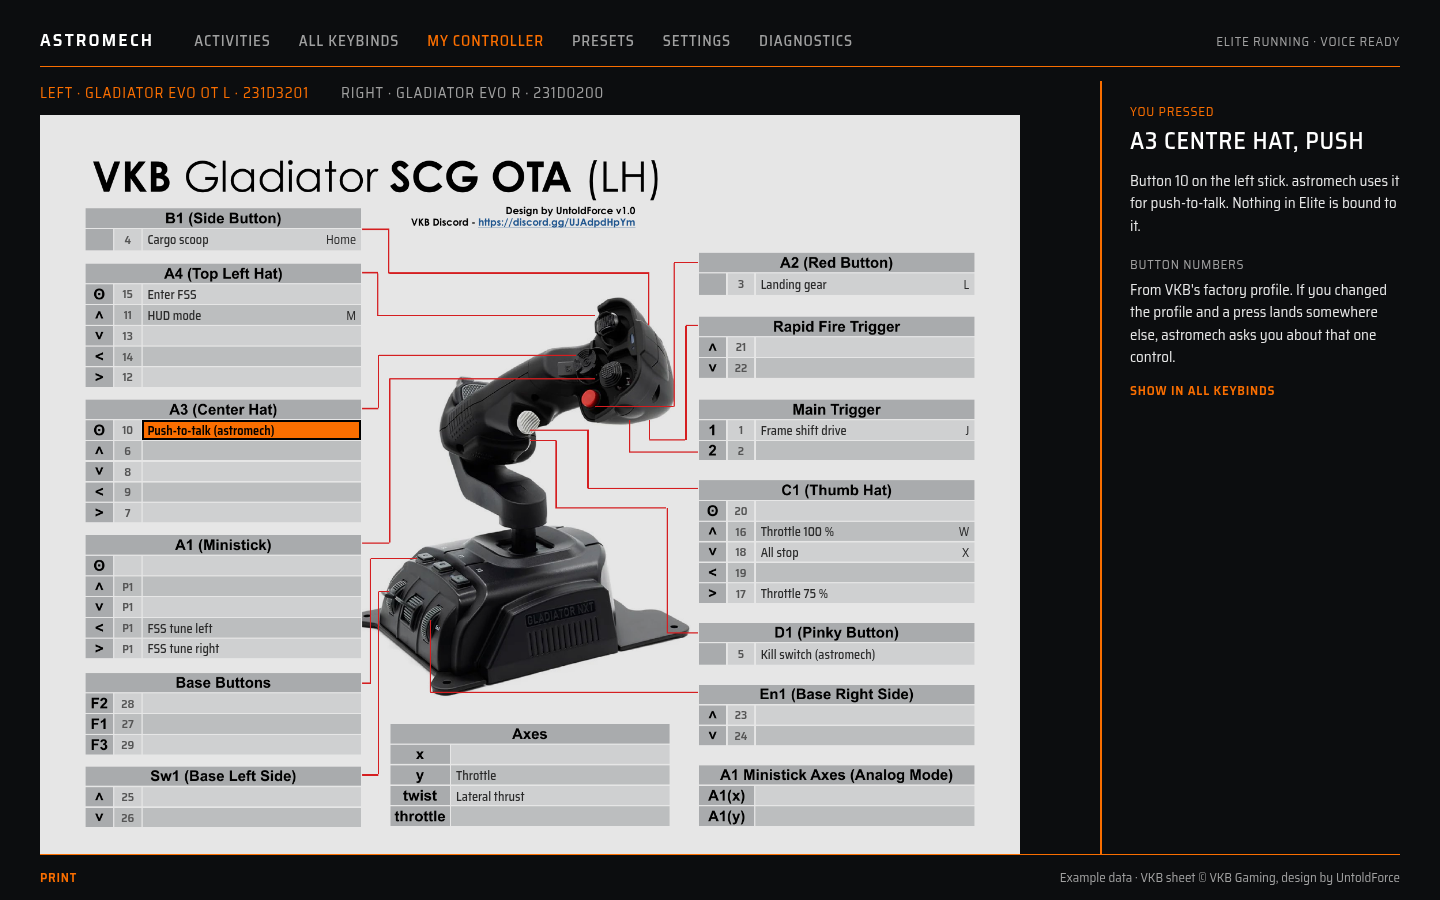
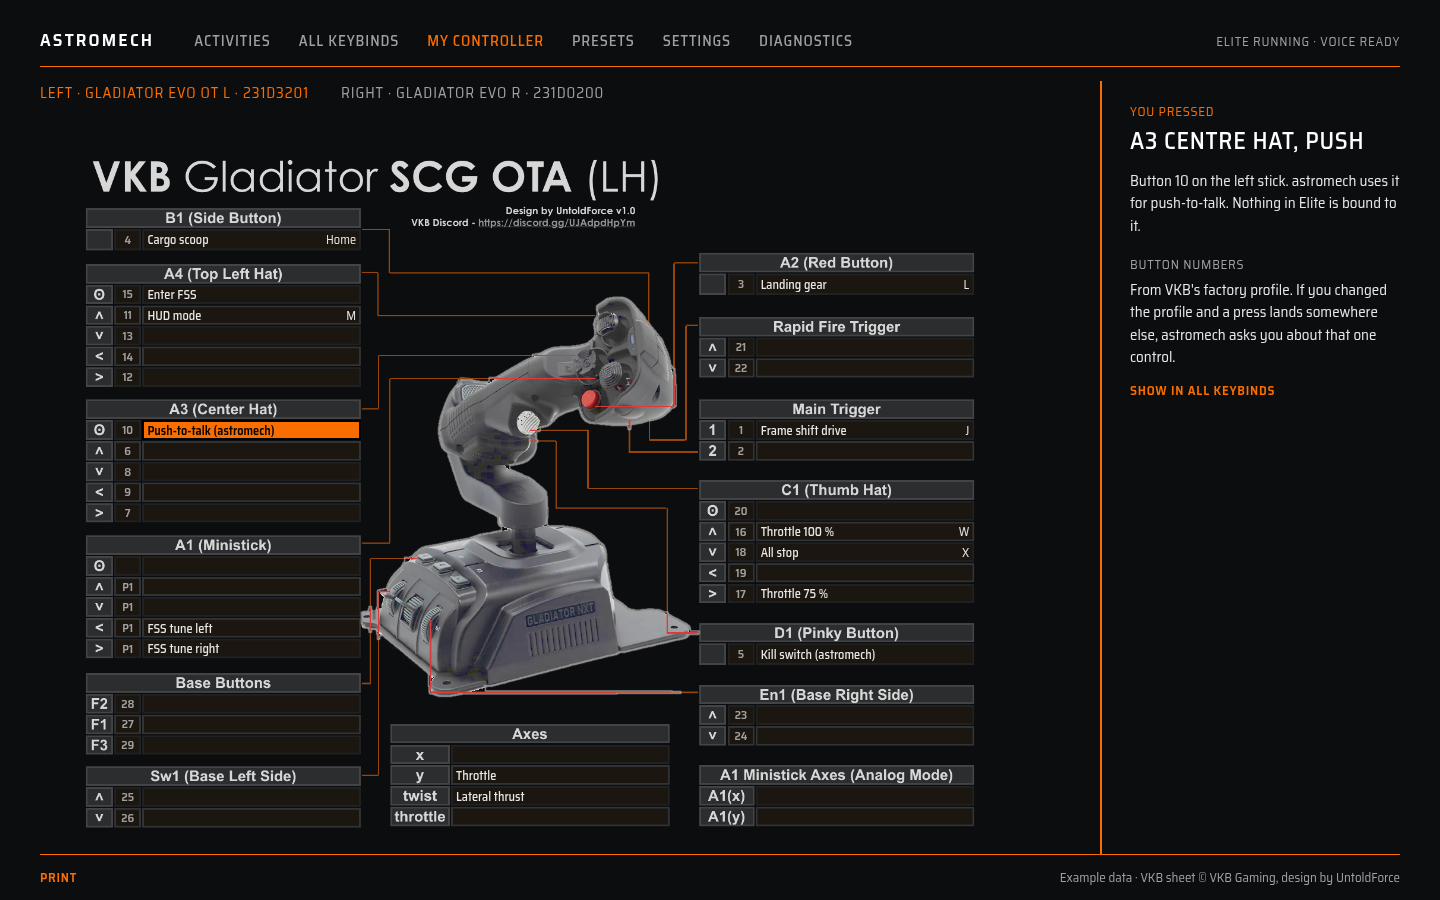
V1 design rev 4: recoloured VKB sheets, ship diagram plan and concept
- scripts/recolour-sheets.py: 150 DPI render, rembg (isnet-general-use) stick mask, palette
  mapping by layer, photo tone-map and 2 px outline. Regenerated app/public/devices/vkb PNGs.
- Sheet overlay text for dark sheets; re-rendered Activities and My controller mockups.
- V1-DESIGN.md §3.4: ship/SRV/suit part diagrams plan (after v1), concept sketch
  (ShipDiagram.svelte, docs/design/mockup-ship.png).

diff --git a/app/src/mockups/ShipDiagram.svelte b/app/src/mockups/ShipDiagram.svelte
@@ -1,0 +1,81 @@
+<script lang="ts">
+  // CONCEPT ONLY (V1-DESIGN.md §3.4): Docking & landing as a ship part diagram. Our own generic
+  // hull, line art. Part anchors are in the SVG's 1000 x 520 space; labels are spread per side.
+  import Frame from "./Frame.svelte";
+
+  type Part = { name: string; action: string; a: [number, number]; p: string; s?: string; side: "l" | "r"; missing?: boolean };
+  const parts: Part[] = [
+    { name: "Cockpit · left panel", action: "FocusLeftPanel", a: [318, 196], p: "L · JOY 6", s: "1", side: "l" },
+    { name: "Ship lights", action: "ShipSpotLightToggle", a: [150, 262], p: "Insert", side: "l" },
+    { name: "Night vision", action: "NightVisionToggle", a: [300, 214], p: "", side: "l", missing: true },
+    { name: "Landing gear", action: "LandingGearToggle", a: [352, 352], p: "L · JOY 3", s: "L", side: "l" },
+    { name: "Throttle · all stop", action: "SetSpeedZero", a: [470, 266], p: "L · JOY 18", s: "X", side: "l" },
+    { name: "Top thrusters · down", action: "DownThrustButton", a: [560, 168], p: "R · POV1 DOWN", s: "F", side: "r" },
+    { name: "Belly thrusters · up", action: "UpThrustButton", a: [560, 334], p: "R · POV1 UP", s: "R", side: "r" },
+    { name: "Side thrusters · left / right", action: "LeftThrustButton / RightThrustButton", a: [690, 262], p: "R · POV1 ◀ ▶", s: "Q / E", side: "r" },
+    { name: "Main thrusters · forward / back", action: "ForwardThrustButton / BackwardThrustButton", a: [890, 252], p: "", side: "r", missing: true },
+    { name: "Rear landing gear", action: "LandingGearToggle", a: [742, 362], p: "L · JOY 3", s: "L", side: "r" },
+  ];
+  const W = 1000, ROW = 52, BOXW = 250, Z = 1.35;
+  const T = (x: number, y: number): [number, number] => [500 + (x - 500) * Z, 265 + (y - 265) * Z];
+  for (const p of parts) p.a = T(p.a[0], p.a[1]);
+  function spread(side: "l" | "r") {
+    const ps = parts.filter((p) => p.side === side).sort((x, y) => x.a[1] - y.a[1]);
+    let y = 90;
+    return ps.map((p) => { y = Math.max(y, p.a[1] - ROW / 2); const out = { p, y }; y += ROW + 8; return out; });
+  }
+  const labels = [...spread("l"), ...spread("r")];
+  const hull = "M120,262 L250,214 L290,190 L360,180 L560,166 L840,186 L892,220 L892,290 L840,318 L560,338 L330,334 L200,300 Z";
+</script>
+
+<Frame active="activities">
+  <div class="acts">
+    {#each ["Flight basics", "Supercruise & jumps", "Exploration", "Trading", "Mining", "Combat", "Docking & landing", "SRV", "On foot"] as a (a)}<span class:on={a === "Docking & landing"}>{a}</span>{/each}
+    <span class="sp"></span><span class="view">View: <span>Sticks</span> · <span class="on">Ship</span></span>
+  </div>
+  <div class="concept">CONCEPT SKETCH · after v1 · example bindings</div>
+  <svg viewBox="-400 70 {W + 800} 400" class="diag">
+    <g transform="translate({500 - 500 * Z},{265 - 265 * Z}) scale({Z})">
+    <path d={hull} class="hull" />
+    <path d="M290,190 L330,214 L250,214" class="detail" />
+    <path d="M360,180 L380,250 L840,250 M560,166 L560,338 M892,236 L910,236 M892,274 L910,274" class="detail" />
+    <path d="M352,334 L352,352 M330,352 L374,352 M742,326 L742,362 M720,362 L764,362" class="detail" />
+    </g>
+    {#each labels as { p, y } (p.name)}
+      {@const bx = p.side === "l" ? -390 : W + 140}
+      {@const ex = p.side === "l" ? bx + BOXW : bx}
+      {@const ey = y + ROW / 2}
+      <polyline points="{p.a[0]},{p.a[1]} {p.side === 'l' ? ex + 24 : ex - 24},{ey} {ex},{ey}" class="lead" class:miss={p.missing} />
+      <circle cx={p.a[0]} cy={p.a[1]} r="4" class="dot" class:miss={p.missing} />
+      <g transform="translate({bx},{y})">
+        <text x="0" y="14" class="pn">{p.name.toUpperCase()}</text>
+        <rect x="0" y="20" width={BOXW / 2 - 1} height="28" class={p.missing ? "c miss" : p.p ? "c" : "c e"} />
+        <rect x={BOXW / 2 + 1} y="20" width={BOXW / 2 - 1} height="28" class={p.s ? "c" : "c e"} />
+        <text x="8" y="39" class="v">{p.missing ? "NOT BOUND · BIND THIS" : p.p}</text>
+        <text x={BOXW / 2 + 9} y="39" class="v">{p.s ?? ""}</text>
+      </g>
+    {/each}
+  </svg>
+  {#snippet footer()}<span>Show all activities</span><span class="note">Concept for after v1 · our own generic hull, not a Frontier asset</span>{/snippet}
+</Frame>
+
+<style>
+  .acts { display: flex; gap: 26px; padding: 14px 0 10px; text-transform: uppercase; letter-spacing: var(--caps); color: var(--text-lo); }
+  .acts .on, .view .on { color: var(--accent); }
+  .sp { flex: 1; }
+  .view { text-transform: none; letter-spacing: 0; }
+  .concept { color: var(--text-lo); font-size: var(--fs-s); letter-spacing: var(--caps); margin: 4px 0 6px; }
+  .diag { width: 100%; height: 680px; display: block; }
+  .hull { fill: rgba(250, 110, 0, 0.06); stroke: var(--accent); stroke-width: 1.5; }
+  .detail { fill: none; stroke: var(--accent-dim); stroke-width: 1.2; }
+  .lead { fill: none; stroke: var(--text-lo); stroke-width: 1; }
+  .dot { fill: var(--accent); }
+  .lead.miss { stroke: var(--accent); stroke-dasharray: 4 3; }
+  .dot.miss { fill: none; stroke: var(--accent); stroke-width: 1.5; }
+  .pn { fill: var(--text-hi); font: 500 13px var(--font); letter-spacing: 0.06em; }
+  .c { fill: var(--cell); }
+  .c.e { fill: var(--cell-empty); }
+  .c.miss { fill: var(--cell-empty); stroke: var(--accent); stroke-width: 1; }
+  .v { fill: var(--text); font: 400 14px var(--font); }
+  .note { margin-left: auto; color: var(--text-lo); font-weight: 400; text-transform: none; letter-spacing: 0; }
+</style>

diff --git a/app/src/mockups/Sheet.svelte b/app/src/mockups/Sheet.svelte
@@ -30,11 +30,11 @@
 
 <style>
   .sheet { position: relative; }
-  img { width: 100%; height: 100%; display: block; filter: brightness(0.9); }
-  span { position: absolute; display: flex; align-items: center; overflow: hidden; white-space: nowrap; font-family: var(--font); color: #222; }
-  .num { justify-content: center; font-size: calc(9.5px * var(--k)); font-weight: 600; color: #555; }
-  .txt { padding: 0 calc(4px * var(--k)); gap: calc(6px * var(--k)); font-size: calc(10px * var(--k)); color: #2a2a2a; }
-  .txt.dim { color: #767676; }
+  img { width: 100%; height: 100%; display: block; }
+  span { position: absolute; display: flex; align-items: center; overflow: hidden; white-space: nowrap; font-family: var(--font); }
+  .num { justify-content: center; font-size: calc(9.5px * var(--k)); font-weight: 600; color: var(--text-lo); }
+  .txt { padding: 0 calc(4px * var(--k)); gap: calc(6px * var(--k)); font-size: calc(10px * var(--k)); color: var(--text); }
+  .txt.dim { color: var(--text-lo); }
   .txt b { font-weight: 500; }
   .txt i { font-style: normal; margin-left: auto; }
   .txt.hi { background: var(--accent); color: #000; }

diff --git a/app/src/mockups/Mockups.svelte b/app/src/mockups/Mockups.svelte
@@ -6,7 +6,8 @@
   import Settings from "./Settings.svelte";
   import TrayMenu from "./TrayMenu.svelte";
   import ActivityView from "./ActivityView.svelte";
-  const pages = { activities: ActivityView, keybinds: KeybindsList, controller: MyController, settings: Settings, tray: TrayMenu };
+  import ShipDiagram from "./ShipDiagram.svelte";
+  const pages = { activities: ActivityView, ship: ShipDiagram, keybinds: KeybindsList, controller: MyController, settings: Settings, tray: TrayMenu };
   const read = () => location.hash.replace("#/mockup/", "");
   let id = $state(read());
   window.addEventListener("hashchange", () => (id = read()));

diff --git a/scripts/recolour-sheets.py b/scripts/recolour-sheets.py
@@ -1,0 +1,84 @@
+#!/usr/bin/env python3
+"""Recolour VKB's reference sheets to astromech's dark palette (docs/V1-DESIGN.md §3.2).
+
+For each PDF in data/devices/vkb/:
+  1. Render page 1 at a fixed 150 DPI (1 PDF point = 150/72 px), so form-field boxes from the
+     device maps still line up: the app scales by page points, not pixels.
+  2. Find the stick photo with rembg (isnet-general-use, CPU, a few seconds per sheet); keep the
+     largest connected blob as the mask.
+  3. Everything outside the mask is flat artwork. Split each pixel into a local background level
+     (grey dilation) and "ink" on top of it, then map:
+        white page   -> --bg        light fields (both stripe shades) -> --cell-empty (unbound box)
+        grey header  -> --cell-opt  black ink    -> light grey text/lines
+        red leaders  -> muted orange (--accent-dim)  blue link -> grey
+  4. Tone-map the photo for a dark background, and draw a 2 px outline round the mask.
+Writes app/public/devices/vkb/<name>.png (the files the app shows). Credit: VKB Gaming,
+sheet design by UntoldForce. Needs numpy, pillow, opencv-python-headless, rembg.
+"""
+import glob, os, subprocess, tempfile
+import cv2
+import numpy as np
+from PIL import Image
+from rembg import new_session, remove
+
+DPI = 150
+BG = np.array([12, 13, 15]); OPT = np.array([43, 45, 46])
+CELL = np.array([28, 22, 16])  # --cell-empty
+INK = np.array([215, 215, 215]); RED = np.array([150, 70, 10])
+OUTLINE = np.array([160, 160, 160])
+
+def render(pdf):
+    out = tempfile.mktemp()
+    subprocess.run(["pdftoppm", "-png", "-singlefile", "-r", str(DPI), pdf, out], check=True)
+    return np.array(Image.open(out + ".png").convert("RGB"))
+
+def stick_mask(rgb, session):
+    m = np.array(remove(Image.fromarray(rgb), session=session, only_mask=True)) > 128
+    n, lab, stats, _ = cv2.connectedComponentsWithStats(m.astype(np.uint8))
+    keep = 1 + int(np.argmax(stats[1:, cv2.CC_STAT_AREA]))
+    m = (lab == keep).astype(np.uint8)
+    m = cv2.morphologyEx(m, cv2.MORPH_CLOSE, np.ones((9, 9), np.uint8))
+    return m.astype(bool)
+
+def artwork(rgb):
+    f = rgb.astype(np.float32)
+    lum = f.mean(2)
+    r, g, b = f[..., 0], f[..., 1], f[..., 2]
+    base = cv2.dilate(lum, np.ones((7, 7), np.uint8))  # local background level
+    wide = cv2.dilate(lum, np.ones((31, 31), np.uint8))  # for thick strokes (the title)
+    base = np.where(base > 170, base, wide)
+    # background class from the level: >240 page, 215-240 field, 198-215 mid, else header
+    bgc = np.where((base > 240)[..., None], BG,
+          np.where((base > 215)[..., None], CELL,
+          np.where((base > 198)[..., None], CELL, OPT))).astype(np.float32)
+    a = np.clip((base - lum) / np.maximum(base - 20, 1), 0, 1)[..., None]  # ink amount
+    red = ((r - g) > 60) & ((r - b) > 60)
+    ink = np.where(red[..., None], RED, INK).astype(np.float32)
+    a = np.where(red[..., None], np.clip((r - g)[..., None] / 200, 0, 1), a)
+    return bgc * (1 - a) + ink * a
+
+def photo(rgb):
+    f = rgb.astype(np.float32) / 255
+    hsv = cv2.cvtColor(rgb, cv2.COLOR_RGB2HSV).astype(np.float32)
+    hsv[..., 2] = 255 * (0.18 + 0.72 * (hsv[..., 2] / 255) ** 0.75)  # lift shadows
+    hsv[..., 1] *= 0.85
+    out = cv2.cvtColor(hsv.astype(np.uint8), cv2.COLOR_HSV2RGB).astype(np.float32)
+    return out * (f.mean(2, keepdims=True) < 0.97) + BG * (f.mean(2, keepdims=True) >= 0.97)
+
+def main():
+    session = new_session("isnet-general-use")
+    for pdf in sorted(glob.glob("data/devices/vkb/*.pdf")):
+        rgb = render(pdf)
+        m = stick_mask(rgb, session)
+        soft = cv2.GaussianBlur(m.astype(np.float32), (5, 5), 0)[..., None]
+        out = artwork(rgb) * (1 - soft) + photo(rgb) * soft
+        ring = cv2.dilate(m.astype(np.uint8), np.ones((5, 5), np.uint8)) - m.astype(np.uint8)
+        ring = cv2.GaussianBlur(ring.astype(np.float32), (3, 3), 0)[..., None]
+        out = out * (1 - ring) + OUTLINE * ring
+        name = os.path.splitext(os.path.basename(pdf))[0]
+        os.makedirs("app/public/devices/vkb", exist_ok=True)
+        Image.fromarray(np.clip(out, 0, 255).astype(np.uint8)).save(f"app/public/devices/vkb/{name}.png", optimize=True)
+        print(name, rgb.shape[1], "x", rgb.shape[0], "px at", DPI, "DPI; stick", int(m.sum()), "px")
+
+if __name__ == "__main__":
+    main()

diff --git a/docs/V1-DESIGN.md b/docs/V1-DESIGN.md
@@ -5,6 +5,12 @@ the gear-down CLI preview (PR #1, 93687e5), Sumeet's real-game rounds, his revie
 revision 1, `ARCHITECTURE.md` v0.13 and `KEYBINDS.md` v0.7. This document decides what v1 *is*;
 the architecture doc stays the reference for how the pieces work inside.
 
+**Revision 4 (10 Oct, 11:59 PM ET).**
+- The VKB sheets are recoloured to the app's dark palette by a build script, so they no longer
+  glare. The stick photo is cut out automatically and gets a thin outline (§3.2).
+- Ship part diagrams are planned for after v1: a ship drawing with lines from its parts to their
+  bindings, as another way to view each activity. Plan and a concept sketch in §3.4.
+
 **Revision 3 (10 Oct, 11:30 PM ET).** Sumeet's notes on revision 2:
 - Use VKB's reference sheets directly. They're made for players to use, and this is a
   non-commercial hobby project. We bundle them with credit.
@@ -106,6 +112,7 @@ those problems; see §3 for why this beats a pictorial main view.
 ### 1.3 Later (with the reason)
 | Item | Why not v1 |
 |---|---|
+| Ship, SRV and suit part diagrams (§3.4) | Wanted, and planned. Needs original line art and a label layout engine; Activities on the sticks covers discovery for v1. |
 | Full binds editor (drag-to-rebind any action, conflict resolution, curves/deadzones) | The viewer + health check + "add keyboard key" covers the pain; a full editor needs much more testing against Elite's file quirks. |
 | Tier-2 voice (FSD, docking request, heat sink, plotting) | Needs the confirm flow, more game-behaviour measurement, and has EULA questions for anything automated. |
 | Second-screen web dashboard | The window covers it. |
@@ -238,6 +245,19 @@ sheets** (`data/devices/vkb/`, credited to VKB Gaming and the sheet designer, Un
 write into VKB's own boxes. The box positions come from the PDF itself (its form fields), so
 labels land exactly where VKB put the boxes.
 
+**Recoloured to match the app.** `scripts/recolour-sheets.py` runs at build time and writes the
+PNGs the app shows (`app/public/devices/vkb/`). For each bundled PDF it:
+1. Renders the page at a fixed **150 DPI**, so one PDF point is 150/72 px. The app places labels
+   using page points, so the form-field boxes from the device maps stay valid at any size.
+2. Cuts out the stick photo with **rembg** (the `isnet-general-use` model, CPU, about 3 s per
+   sheet). It keeps the largest blob, which drops stray text and lines.
+3. Recolours the rest by layer: white page → window black; grey table headers → the dark option
+   cell; empty boxes → the dark unbound cell; black text and lines → light grey; red leader lines
+   → muted orange; the blue Discord link → grey.
+4. Lifts the photo's shadows so the black stick reads on black, and draws a 2 px grey outline
+   round it.
+The PDFs stay in the repo unchanged, with VKB's credit. Rerun the script whenever a sheet changes.
+
 **Stock button numbers.** VKB sticks ship with a factory profile, so the numbers are known. We
 ship them as built-in maps:
 - `data/devices/vkb/gladiator-evo-r.231D0200.json`
@@ -358,6 +378,64 @@ really unbound in his preset is unknown until we read the whole file.
 
 ---
 
+### 3.4 Later: ship, SRV and suit diagrams
+**What it is.** A drawing of the ship with thin lines from its parts to boxes showing their
+bindings: lights, landing gear, hardpoints, cargo scoop, FSD, thrusters, shields, sensors,
+cockpit panels. The same for the SRV and the suit. It's how people think ("how do I lower the
+gear?"), it's the most game-like view, and pictures help people find controls faster than lists.
+
+**How it fits.** Each activity gets a second view: **Sticks · Ship** (or SRV / Suit for those
+activities). Same actions, same "not bound yet" list, same "Bind this". Sticks shows *where your
+hands go*; Ship shows *what it does*. Not every action has a part (galaxy map, panels): those sit
+in a plain "Cockpit" box near the canopy.
+
+**Art.**
+- Our own line art, not Frontier's models or screenshots. One **generic hull** first, then the
+  SRV (Scarab) and a suit, all generic. Per-hull drawings (Cobra, Krait, …) come later, only if
+  people want them.
+- SVG, three-quarter view from above, so the belly, top and sides all show.
+- Each drawing has an **anchor file**: part id → point on the drawing, plus which side its label
+  should go. Example: `landing_gear: {at: [352, 352], side: "left"}`. Each action in the
+  catalogue lists the part it belongs to (`LandingGearToggle → landing_gear`).
+
+**Label layout.**
+1. Put each label on its preferred side (left or right of the hull, or above/below).
+2. Sort each side by the anchor's height and push labels apart to a minimum gap (one pass, like
+   the game's own lists). Keep them as close to their anchor's height as possible.
+3. Draw each leader as two straight segments: from the part dot to a bend 24 px from the box, then
+   level into the box. No curves.
+4. If two leaders cross, swap their labels and redo step 2. Repeat a few times. With 10–20 labels
+   this is instant.
+5. Labels never cover the hull. If a side is full, overflow goes above or below.
+
+**Interaction.**
+- Pressing a control highlights its part: the dot fills, the leader turns orange, the box gets an
+  outline.
+- Clicking a part (or its box) selects that action; "Bind this" then waits for a press.
+- Unbound important actions: hollow dot, dashed orange leader, box says "Not bound · Bind this".
+
+**Style.** Elite's stock orange only. Hull lines in orange at full strength for the outline and dim
+orange for panel lines; a very faint orange fill, like the game's hologram ship panels. Leaders in
+grey; part dots in orange. Boxes are the same filled cells as the list. No glow, no animation
+beyond the highlight.
+
+**Effort (after v1).**
+| Work | Effort |
+|---|---|
+| Diagram component: SVG, anchor file, layout and crossing fix, highlight and bind | ~1 week |
+| Generic ship line art + anchors for all ship activities | ~1 week |
+| SRV and suit line art + anchors | ~1 week |
+| Part ids in the catalogue, testing at different window sizes | ~3 days |
+| **Total** | **~3.5 weeks** |
+| Each extra per-hull drawing | ~2–3 days |
+
+**Concept sketch:** `docs/design/mockup-ship.png` (`ShipDiagram.svelte`). Docking & landing on a
+generic ship drawn in side view, marked as a concept, with example bindings. It shows lights,
+landing gear (front and rear), top, belly, side and main thrusters, all stop, night vision and
+the left panel (to request docking). The real version would use the three-quarter view.
+
+---
+
 ## 4. Visual system
 
 Derived from the game's Options → Controls screen (colours sampled from Sumeet's screenshot).
@@ -410,6 +488,7 @@ Static Svelte pages (open `#/mockup/<id>`), rendered with `scripts/mockup-shots.
 | Mockup | File | Screenshot |
 |---|---|---|
 | All keybinds (full list) | `app/src/mockups/KeybindsList.svelte` | `docs/design/mockup-keybinds.png` |
+| Concept: Docking & landing ship diagram (after v1) | `ShipDiagram.svelte` | `docs/design/mockup-ship.png` |
 | Activities: Exploration, on his VKB pair | `ActivityView.svelte`, `Sheet.svelte` | `docs/design/mockup-activities.png` |
 | My controller (VKB sheet) | `MyController.svelte`, `Sheet.svelte` | `docs/design/mockup-controller.png` |
 | Settings (one list) | `Settings.svelte` | `docs/design/mockup-settings.png` |
@@ -435,15 +514,20 @@ Still noisier than the game (and what I changed):
 - The tray menu 2a showed "Pause voice" ticked under "voice ready". **Fixed.**
 - Two rows of filter toggles (contexts and All/Issues/Unbound) above the column heads are one
   more line than the game has; kept, because they replace the game's separate context menus.
-- The VKB sheet is a bright paper page inside a dark window. That's a deliberate trade:
-  accuracy over aesthetics; it's VKB's document, shown as VKB made it.
-- Activities (rev 3): the VKB sheets are bright paper pages in a dark window, and VKB's photo
-  and red leader lines are busier than anything else on screen. That's the cost of using the
-  real sheet, and it's worth it: you see your actual stick. **Fixed what we control:** the sheet
-  is dimmed slightly (90% brightness) to cut glare; actions outside the activity are grey, so
-  the orange boxes stand out; no extra frames, legends or colours around the sheets.
-- Rev 3a used light grey text for every binding on the sheet, which was hard to read.
-  **Fixed:** dark text normally, grey only for "not in this activity".
+- Rev 4, sheets recoloured: the white flashbang is gone. Headers, boxes and text now use the
+  list's own cells and greys, so the sheet reads as part of the window. The orange "in this
+  activity" boxes stand out more than before, because nothing else on the sheet is bright.
+- Rev 4a mapped empty boxes to the bound-cell brown. Every box was brown, the sheet looked
+  busy, and bound and empty looked alike. **Fixed:** empty boxes use the darker unbound cell,
+  like the game's empty slots.
+- Rev 4a turned VKB's bold title letters into hollow outlines. **Fixed:** thick strokes now
+  find their background from a wider area.
+- Still busier than the game: VKB's photo and leader lines. Red leader lines *on top of* the
+  photo stay red, because the script can't tell them from the red A2 button. Small; left as is.
+- Ship concept: the drawing is flat and side-on, so it leaves empty space above and below, and
+  some leaders cross. The planned layout pass (§3.4) and a three-quarter view fix both.
+- Binding text on the sheets is light grey on the dark boxes; grey only for "not in this
+  activity".
 - Rev 3a printed hat directions ("Up") in the number box for the ministick. **Fixed:** `P1`
   (POV 1); axes have no number box.
 - Upper-case row labels are copied from the game for familiarity, though they read slower than
@@ -601,7 +685,7 @@ Rough effort for one developer working with an agent; Sumeet tests at each miles
 |---|---|---|---|
 | **M0 Foundation** | Core as tray app (native menu, single instance, autostart, game watcher, idle/active), core↔shell API, shell frame with the visual system, logs, NSIS per-user installer, release CI | ~1.5 weeks | Install without admin; tray at login; voice wakes when Elite starts |
 | **M1 Keybinds list** | All keybinds (groups, search, pressing a control, inline health), about panel, Presets, backups, "assign a key in a copy" | ~3 weeks | He finds any binding in under 10 s and every health issue says how to fix it |
-| **M2 Sheets and activities** | Bundled VKB sheets and stock maps, My controller, Activities with the catalogue, "Bind this", the remapped-control question | ~2 weeks | Both sticks show the right actions in the right boxes with no setup; he finds "Target next system in route" from Exploration |
+| **M2 Sheets and activities** | Bundled VKB sheets (recoloured) and stock maps, My controller, Activities with the catalogue, "Bind this", the remapped-control question | ~2 weeks | Both sticks show the right actions in the right boxes with no setup; he finds "Target next system in route" from Exploration |
 | **M3 Voice v1** | Chosen mic, level correction, calibration step, personal phrase learning, extra T1 commands, status questions, eval harness on clips saved via the Debug setting | ~2–3 weeks | At least 95% correct execute-or-ask on his VR clip set |
 | **M4 Onboarding, Settings, Diagnostics** | Onboarding flow, the settings list, key tester, diagnostics bundle, callouts | ~1.5 weeks | Fresh install to working gear-down by voice in under 5 minutes |
 | **M5 Release** | Polish from testing, README | ~1 week | v1.0 on GitHub Releases |

diff --git a/NOTICE.md b/NOTICE.md
@@ -37,3 +37,4 @@ their PNG renders in `app/public/devices/vkb/`) are VKB Gaming's reference sheet
 UntoldForce, from https://www.vkbgaming.com/fillable-templates/. Included unchanged, with
 credit. Stock button numbers are from EDRefCard (MIT, Copyright (c) 2017 Richard Buckle;
 github.com/brammmers/edrefcard2).
+The PNGs are recoloured by `scripts/recolour-sheets.py` to match the app; the PDFs are unchanged.
